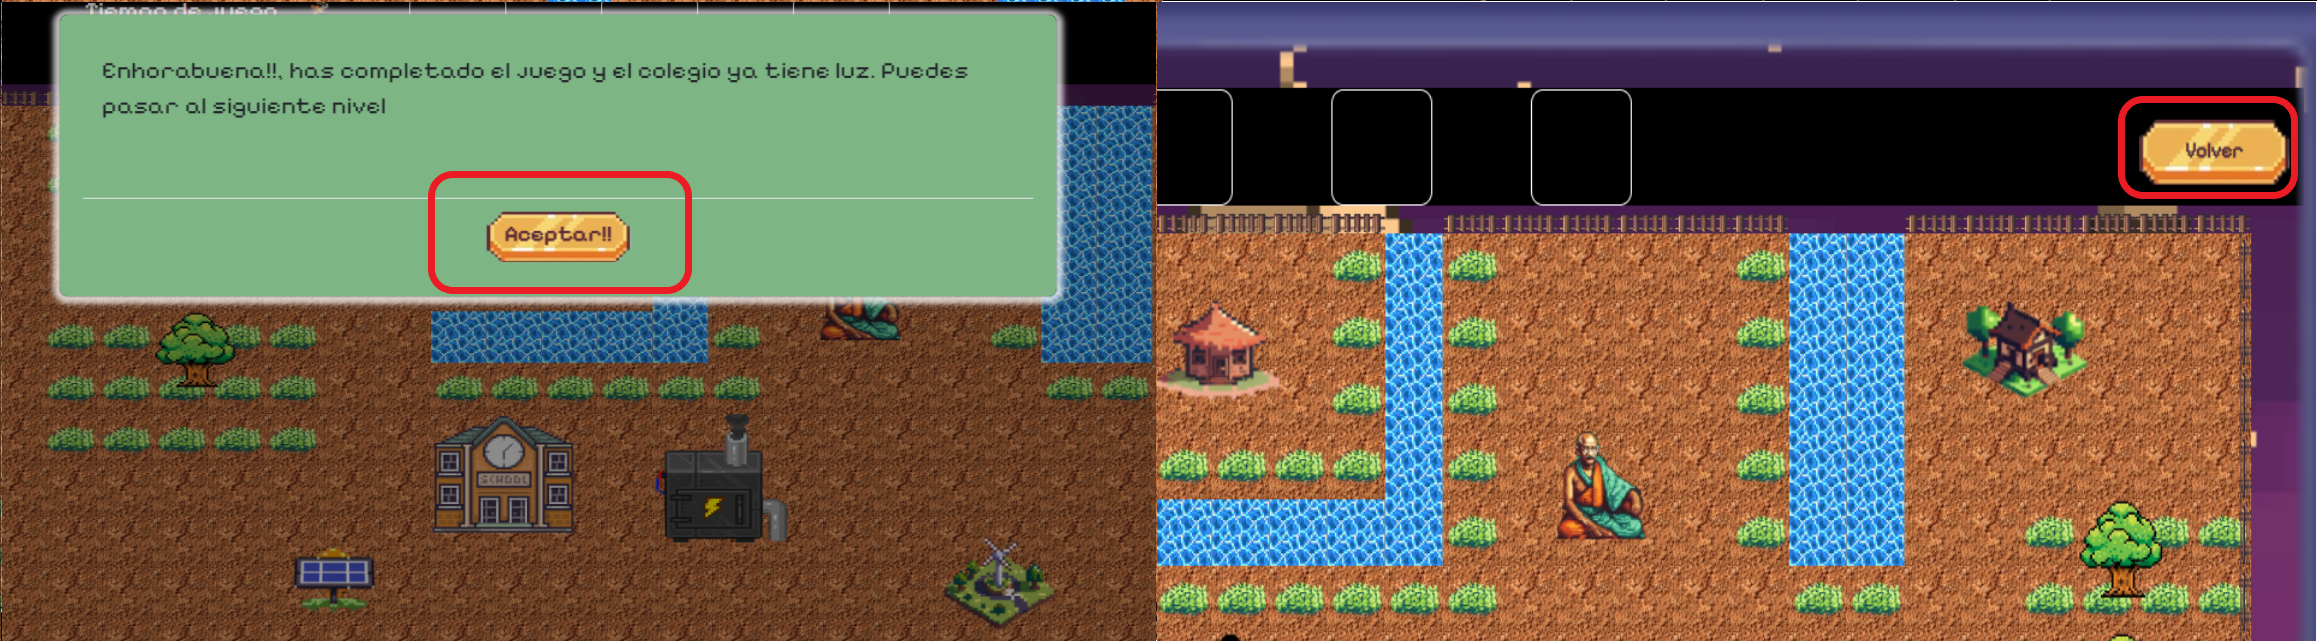
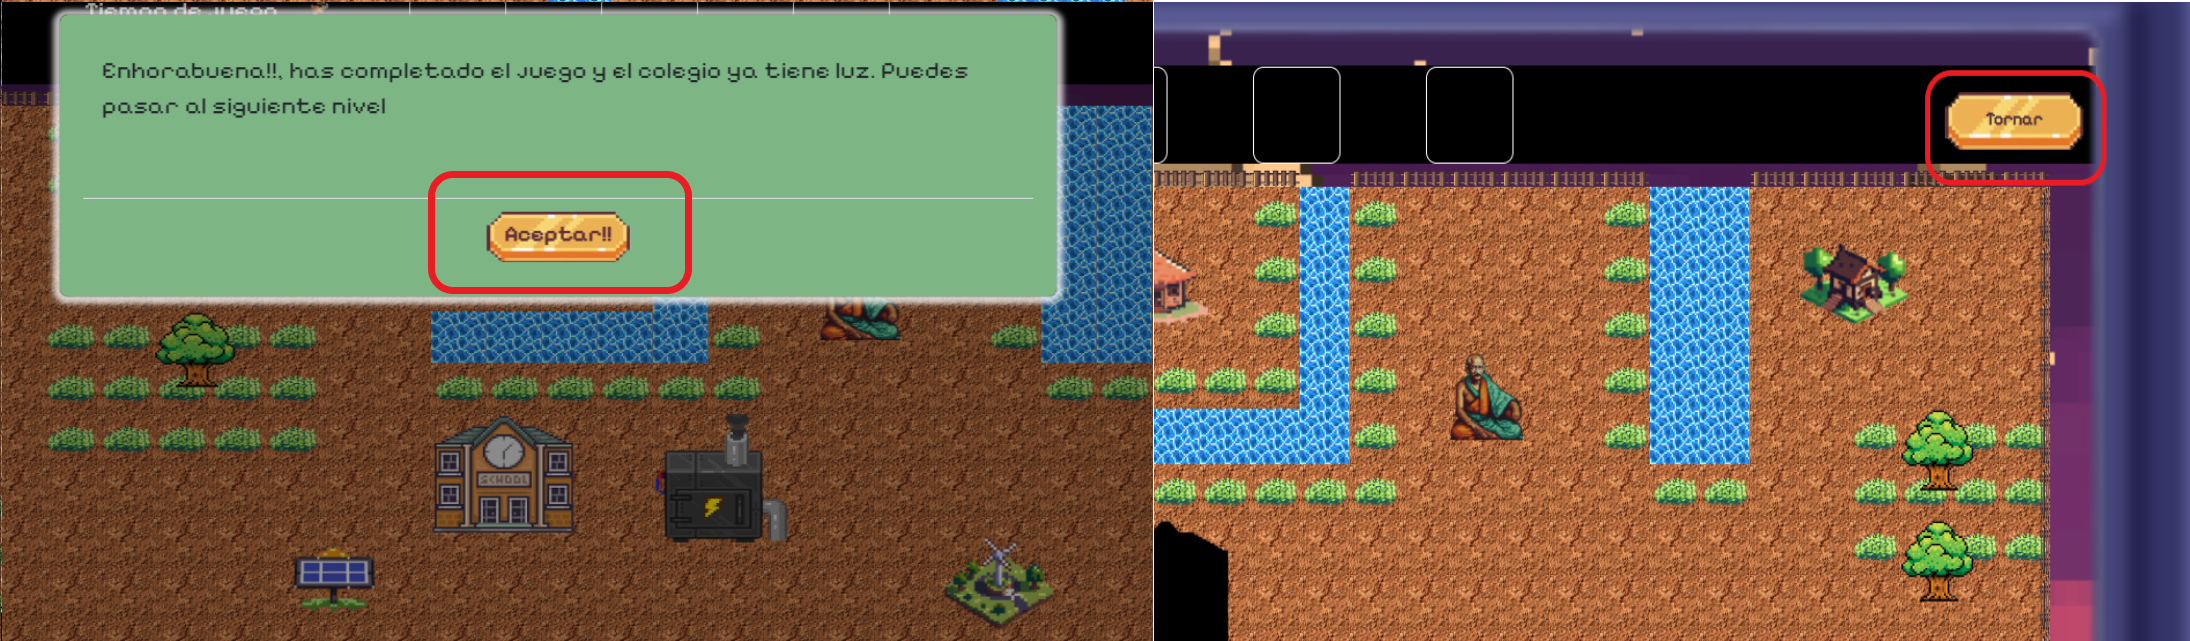
Imagenes instrucciones

diff --git a/india/index.html b/india/index.html
@@ -233,7 +233,7 @@
                             <img src="img/colocarPiezas.png" id="colocar" class="d-block">
                         </div>
                         <div class="carousel-item">
-                            <h3 class="instruccion8">Per a acabar el joc i tornar al mapa, prem el botó "Acceptar" com es veu en la imatge esquerra, i per a sortir del joc prem el botó "Tornar"</h3>
+                            <h3 class="instruccion8">Per a acabar el joc i tornar al mapa, prem el botó "Acceptar" com es veu en la imatge esquerra. Si vols deixar de jugar i sortir del joc, prem el botó "Tornar"</h3>
                             <img src="img/completar.png" id="completar" class="d-block">
                         </div>
                     </div>

diff --git a/india/css/india.css b/india/css/india.css
@@ -858,7 +858,7 @@ button.audio-close{
   }
 
   #mision #completar{
-    width: 1170px;
+    width: 1097px;
     margin: auto;
   }
 
